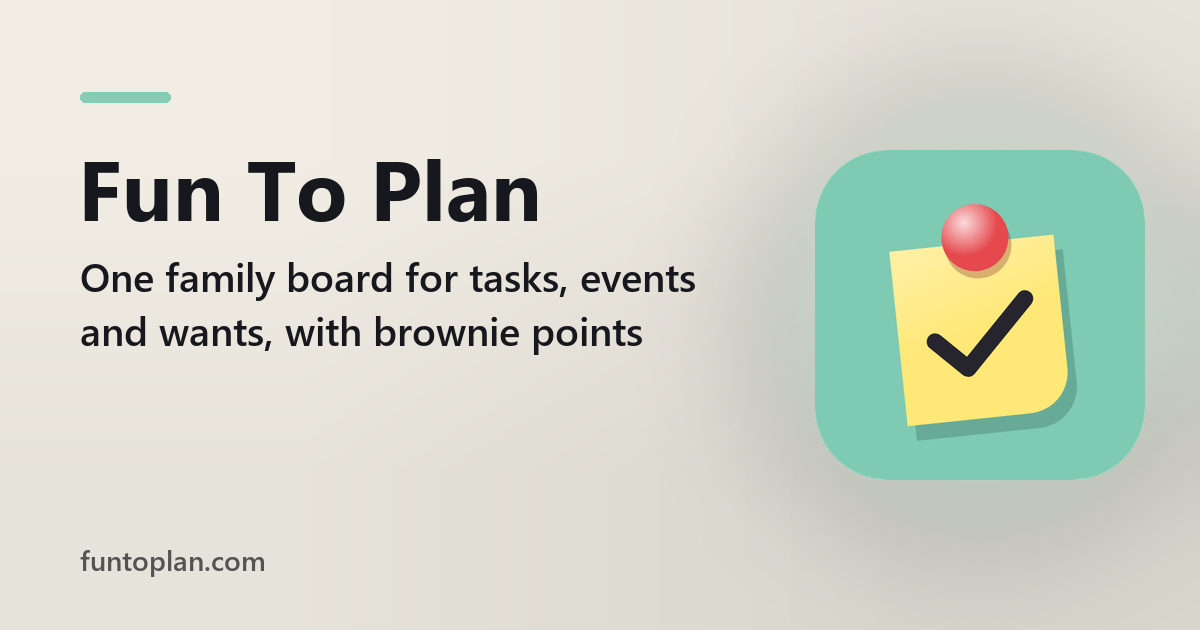
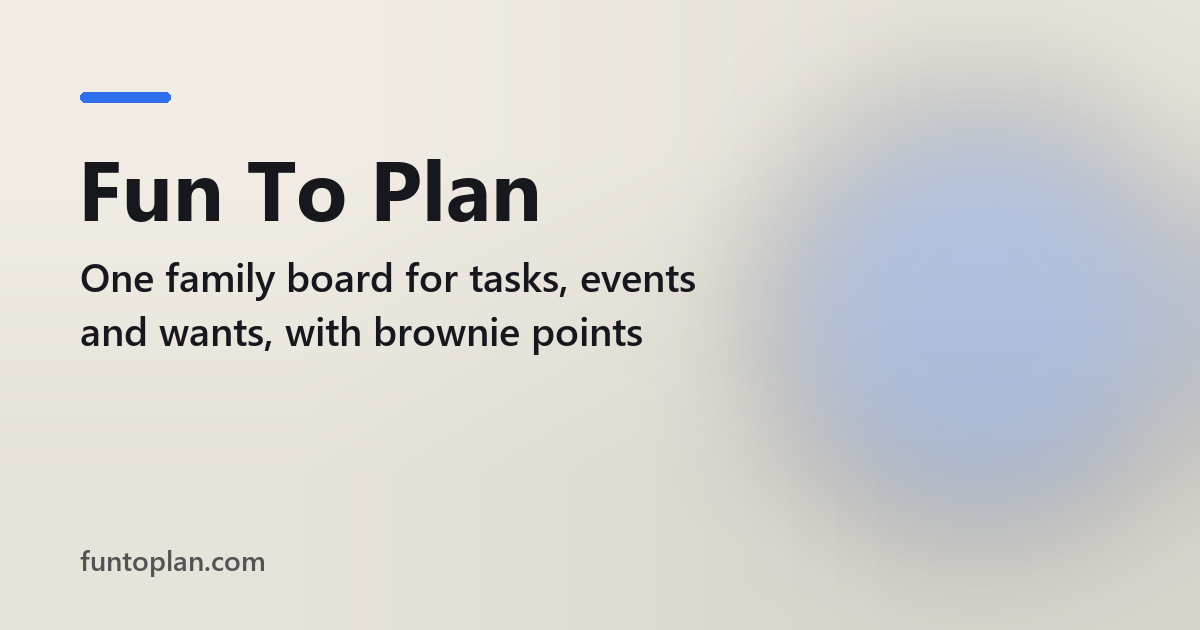
SEO: valid schema.org fields (availableLanguage on ServiceChannel, no browserRequirements on games)

Changed region(s): [[0.6783, 0.2111, 0.9558, 0.7841], [0.0617, 0.1206, 0.1542, 0.181]]

diff --git a/server_code/seo_routes.py b/server_code/seo_routes.py
@@ -60,12 +60,12 @@ SEO = {
  ],
  "site": "https://funtoplan.com",
  "updated": "2026-11-09",
- "icon": "logo.png",
+ "icon": "icon-512.png",
  "colors": {
   "bg": "#f1ede4",
   "ink": "#16181d",
-  "brand": "#84ccb4",
-  "on": "#16181d"
+  "brand": "#2f6fed",
+  "on": "#ffffff"
  }
 }
 
@@ -148,18 +148,25 @@ def _ld(o):
         app["serviceType"] = s.get("service_type", s.get("tagline", s["title"]))
         app["provider"] = {"@id": "https://arkvital.com/#org"}
         app["areaServed"] = "Worldwide"
-        app["availableChannel"] = {"@type": "ServiceChannel", "serviceUrl": o + "/", "name": "Web browser"}
+        # availableLanguage belongs on the channel (schema.org has no Service.availableLanguage)
+        app["availableChannel"] = {"@type": "ServiceChannel", "serviceUrl": o + "/", "name": "Web browser",
+                                   "availableLanguage": s.get("lang", "en")}
         del app["inLanguage"], app["publisher"], app["keywords"]
-        app["availableLanguage"] = s.get("lang", "en")
+    if app["@type"] == "ProfessionalService":
+        # an Organization: knowsLanguage, not inLanguage (a CreativeWork field)
+        app["knowsLanguage"] = app.pop("inLanguage")
+        del app["publisher"]
     if app["@type"] in ("WebApplication", "VideoGame"):
         app["applicationCategory"] = s.get("category", "WebApplication")
         app["operatingSystem"] = "Any (web browser)"
+    if app["@type"] == "WebApplication":
         app["browserRequirements"] = "Requires JavaScript and a modern web browser"
+    if app["@type"] in ("WebApplication", "VideoGame"):
         if s.get("features"):
             app["featureList"] = s["features"]
     if s.get("free"):
         app["offers"] = {"@type": "Offer", "price": "0", "priceCurrency": "CAD"}
-    if s.get("audience"):
+    if s.get("audience") and app["@type"] != "ProfessionalService":
         app["audience"] = {"@type": "Audience", "audienceType": s["audience"]}
     page = {"@type": "AboutPage", "@id": o + "/about#page", "url": o + "/about", "name": "About " + s["name"],
             "about": {"@id": o + "/#app"}, "isPartOf": {"@id": o + "/#site"}}
